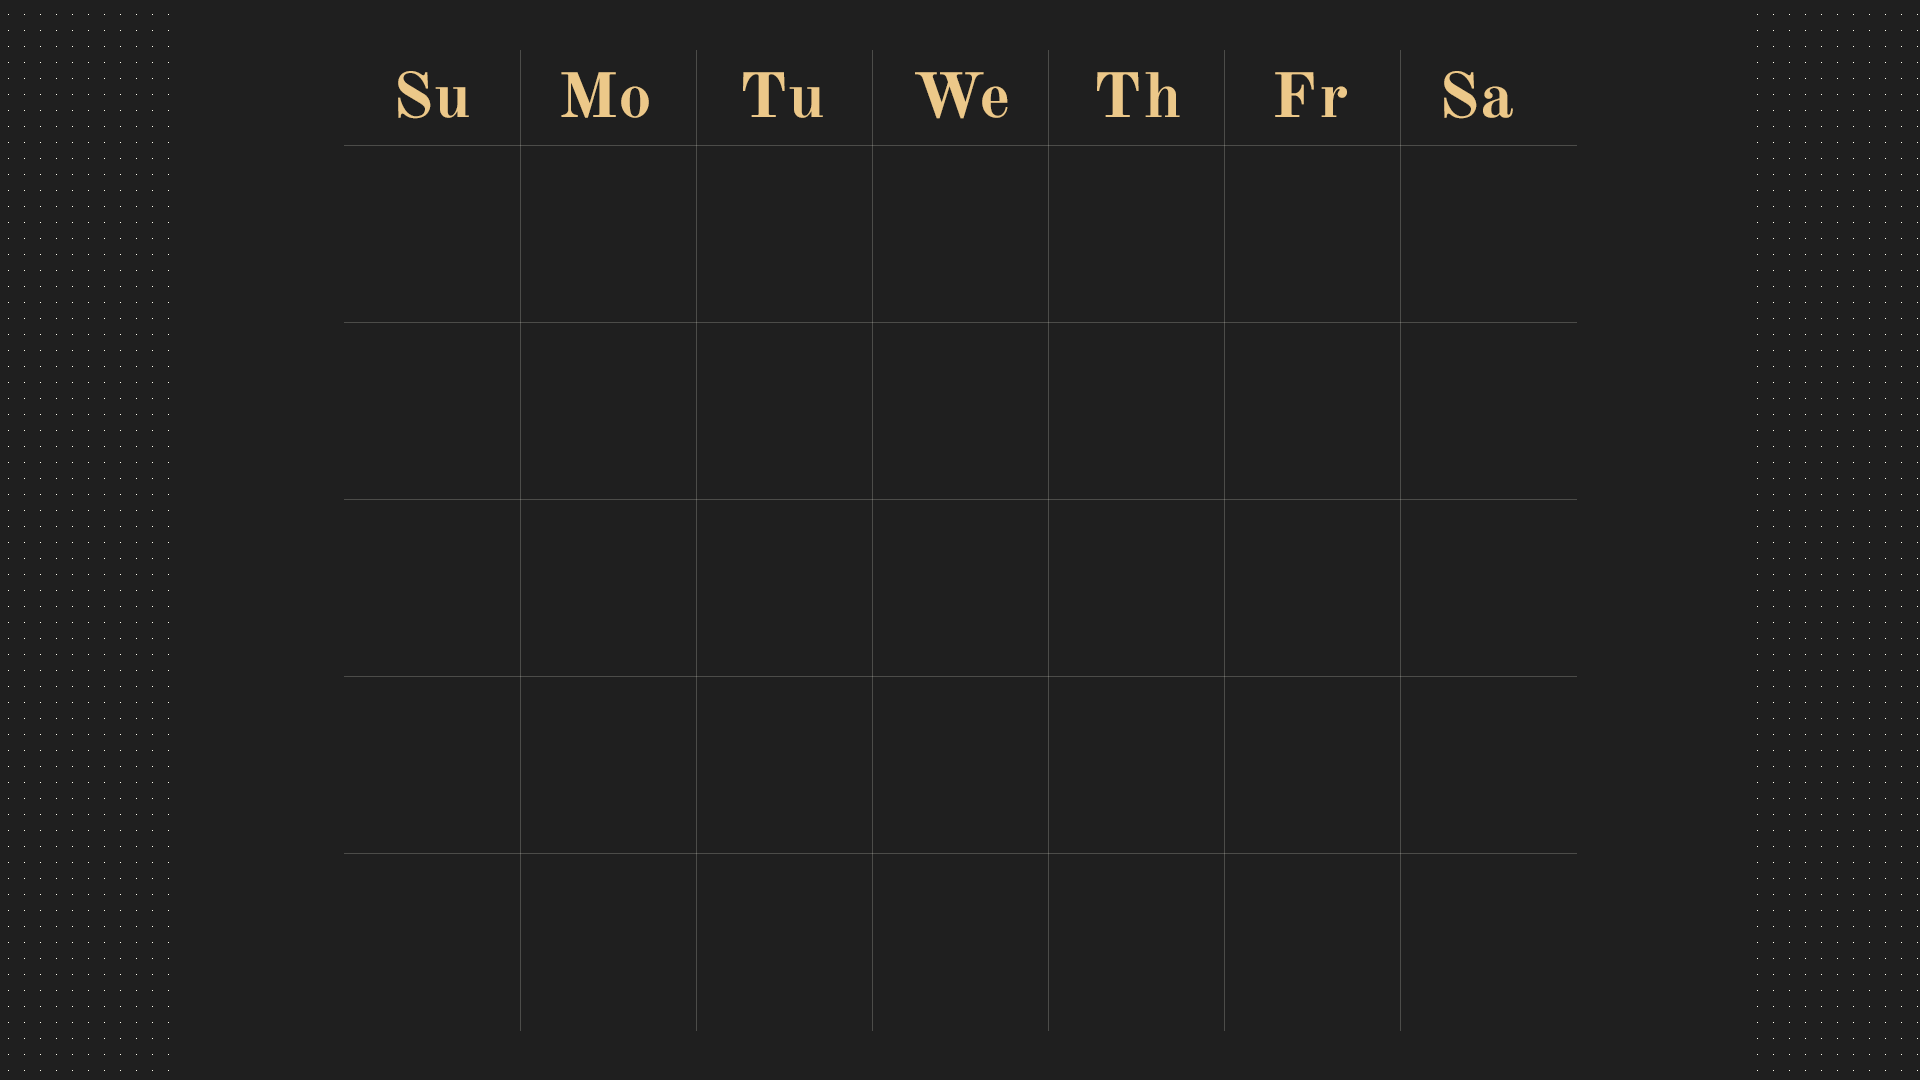
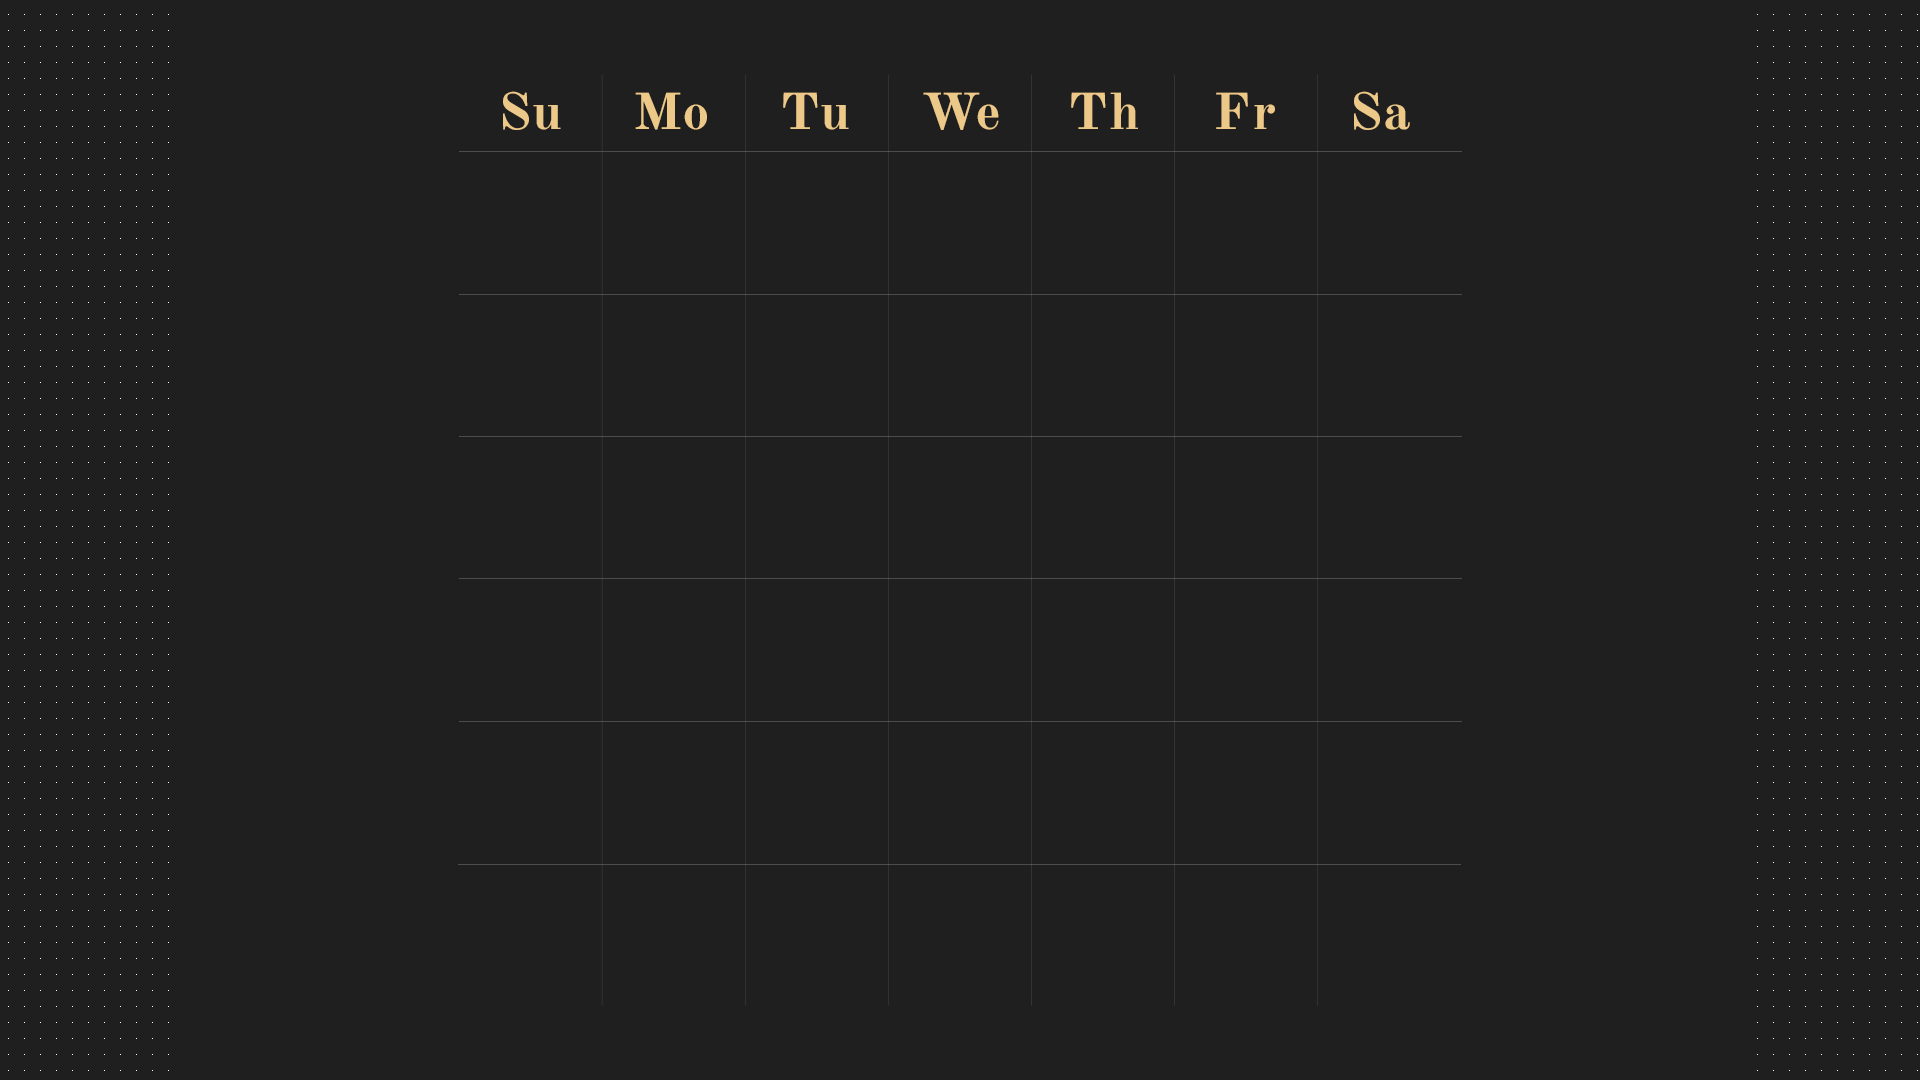
- Fixed setting wallpaper on startup - Calendar is now 6 rows instead of 5 for compatibility with all months - Month resize base on name length - Disabled crossing out upcoming days - Added log4net

Changed region(s): [[0.1875, 0.0611, 0.4375, 0.1222], [0.5625, 0.0611, 0.7812, 0.1222], [0.4688, 0.0611, 0.5312, 0.1222]]

diff --git a/UserControls/CustomCalendar.xaml b/UserControls/CustomCalendar.xaml
@@ -17,8 +17,8 @@
                     <ImageBrush ImageSource="/Assets/base.png" Stretch="UniformToFill"/>
                 </Grid.Background>
                 <!--<Image Source="pack://CalendarHabitsApp:,,,/Assets/base.png"></Image>-->
-                <ItemsControl Name="Calendar" ItemsSource="{Binding}" MaxWidth="1240" 
-                              VerticalAlignment="Top" HorizontalAlignment="Center" Margin="0,146,0,0">
+                <ItemsControl Name="Calendar" ItemsSource="{Binding}" MaxWidth="1004" 
+                              VerticalAlignment="Top" HorizontalAlignment="Center" Margin="0,151,0,0">
                     <ItemsControl.ItemsPanel>
                         <ItemsPanelTemplate>
                             <WrapPanel Orientation="Horizontal" />
@@ -26,9 +26,9 @@
                     </ItemsControl.ItemsPanel>
                     <ItemsControl.ItemTemplate>
                         <DataTemplate>
-                            <Border Width="176" Height="176" BorderThickness="1,1,1,1" BorderBrush="Transparent">
+                            <Border Width="142" Height="142" BorderThickness="1,1,1,1" BorderBrush="Transparent">
                                 <Grid>
-                                    <Image HorizontalAlignment="Center" VerticalAlignment="Center" Width="140" Height="140">
+                                    <Image HorizontalAlignment="Center" VerticalAlignment="Center" Width="112" Height="112">
                                         <Image.Style>
                                             <Style TargetType="Image">
                                                 <Style.Triggers>
@@ -40,7 +40,7 @@
                                         </Image.Style>
                                     </Image>
                                     <TextBlock Text="{Binding Date.Day}" FontFamily="Old Standard TT Bold" 
-                                   FontSize="76" HorizontalAlignment="Center" VerticalAlignment="Center">
+                                   FontSize="60" HorizontalAlignment="Center" VerticalAlignment="Center">
                                         <TextBlock.Style>
                                             <Style TargetType="TextBlock">
                                                 <Style.Triggers>
@@ -54,7 +54,7 @@
                                             </Style>
                                         </TextBlock.Style>
                                     </TextBlock>
-                                    <Grid Width="109" Height="104" VerticalAlignment="Center" HorizontalAlignment="Center" Cursor="Hand" MouseUp="Grid_MouseUp">
+                                    <Grid Width="88" Height="84" VerticalAlignment="Center" HorizontalAlignment="Center" Cursor="Hand" MouseUp="Grid_MouseUp">
                                         <Grid.Background>
                                             <SolidColorBrush Color="#fffef0" Opacity=".01" />
                                         </Grid.Background>

diff --git a/Helpers/Wallpaper.cs b/Helpers/Wallpaper.cs
@@ -56,6 +56,7 @@ namespace CalendarHabitsApp.Helpers
 
         public static void Set(string path)
         {
+            MainWindow.log.Info("Fetching desktop registry key");
             Style style = Wallpaper.Style.Centered;
             RegistryKey key = Registry.CurrentUser.OpenSubKey(@"Control Panel\Desktop", true);
 
@@ -67,7 +68,9 @@ namespace CalendarHabitsApp.Helpers
 
             if (style == Style.Centered)
             {
+                MainWindow.log.Info("Setting WallpaperStyle key value");
                 key.SetValue(@"WallpaperStyle", 1.ToString());
+                MainWindow.log.Info("Setting TileWallpaper key value");
                 key.SetValue(@"TileWallpaper", 0.ToString());
             }
 
@@ -77,14 +80,17 @@ namespace CalendarHabitsApp.Helpers
                 key.SetValue(@"TileWallpaper", 1.ToString());
             }
 
+            MainWindow.log.Info("Saving wallpaper path to registry - " + path);
             SystemParametersInfo(SPI_SETDESKWALLPAPER,
                 0,
                 path,
                 SPIF_UPDATEINIFILE | SPIF_SENDWININICHANGE);
+            MainWindow.log.Info("Saving wallpaper complete");
         }
 
         public static void CreateImage(bool darkMode, DateTime currentDate, CalendarCell currentDateCell, List<MonthDay> selectedMonthDays, List<DateTime> habitDays)
         {
+            MainWindow.log.Info("Drawing calendar bitmap");
             Color color1, color2, color3;
             String baseImageFile, highlightFile, crossoutFile, crossoutDimmedFile;
 
@@ -113,20 +119,15 @@ namespace CalendarHabitsApp.Helpers
             //
             CalendarVariables calVars = new CalendarVariables();
 
-            int textw = 89;
-            int texth = 70;
+            int textw = 70;
+            int texth = 45;
 
             FontCollection collection = new FontCollection();
             FontFamily family = collection.Install(IOPath.Combine(System.AppDomain.CurrentDomain.BaseDirectory, "Assets", "Fonts", "OldStandard-Bold.ttf"));
 
-            Font numbersFont = family.CreateFont(75, FontStyle.Italic);
-            RendererOptions numbersFontOptions = new RendererOptions(numbersFont, dpi: 72)
-            {
-                ApplyKerning = true
-            };
 
-            Font monthFont = family.CreateFont(242, FontStyle.Italic);
-            RendererOptions monthFontOptions = new RendererOptions(numbersFont, dpi: 72)
+            Font numbersFont = family.CreateFont(60, FontStyle.Italic);
+            RendererOptions numbersFontOptions = new RendererOptions(numbersFont, dpi: 72)
             {
                 ApplyKerning = true
             };
@@ -143,10 +144,11 @@ namespace CalendarHabitsApp.Helpers
                 Point highlightPosition = new Point(
                     calVars.canvasStartX + (currentDateCell.X - 1) * calVars.calendarCellW
                     + (currentDateCell.X * calVars.calendarCellBorder)
-                     + (calVars.calendarCellW / 2 - calVars.currentDayHighlightImageW / 2),
-                     calVars.canvasStartY + (currentDateCell.Y - 1) * calVars.calendarCellH
-                     + (currentDateCell.Y * calVars.calendarCellBorder)
-                     + (calVars.calendarCellH / 2 - calVars.currentDayHighlightImageH / 2));
+                    + (calVars.calendarCellW / 2 - calVars.currentDayHighlightImageW / 2),
+                     calVars.canvasStartY - 2 + ((currentDateCell.Y - 1) * calVars.calendarCellH)
+                    + (currentDateCell.Y * calVars.calendarCellBorder)
+                    + (calVars.calendarCellH / 2 - calVars.currentDayHighlightImageH / 2));
+                //Y calc -> (CanvasStart Y px + CurrentDayCell row number * cellheight) + (CurrentDayCell row number * border size) + (cellheight / 2 - imageheight / 2)
 
                 outputImage.Mutate(o => o
                     .DrawImage(baseImage, new Point(0, 0), 1f)
@@ -157,12 +159,12 @@ namespace CalendarHabitsApp.Helpers
                 #region Draw Calendar numbers
                 //Draw Calendar numbers
                 //
-                for (int i = 0; i < 5; i++)
+                for (int i = 0; i < 6; i++)
                 {
                     for (int j = 0; j < 7; j++)
                     {
                         float posx = calVars.canvasStartX + ((j + 1) - 1) * calVars.calendarCellW + ((j + 1) * calVars.calendarCellBorder) + (calVars.calendarCellW / 2 - textw / 2);
-                        float posy = calVars.canvasStartY - 15 + ((i + 1) - 1) * calVars.calendarCellH + ((i + 1) * calVars.calendarCellBorder) + (calVars.calendarCellH / 2 - texth / 2);
+                        float posy = calVars.canvasStartY - 20 + (((i + 1) - 1) * calVars.calendarCellH) + ((i + 1) * calVars.calendarCellBorder) + (calVars.calendarCellH / 2 - texth / 2);
 
                         Color textcolor = color1;
 
@@ -179,7 +181,7 @@ namespace CalendarHabitsApp.Helpers
                         if (habitDay != -1)
                         {
                             int posx2 = calVars.canvasStartX - 10 + ((j + 1) - 1) * calVars.calendarCellW + ((j + 1) * calVars.calendarCellBorder) + (calVars.calendarCellW / 2 - textw / 2);
-                            int posy2 = calVars.canvasStartY - 15 + ((i + 1) - 1) * calVars.calendarCellH + ((i + 1) * calVars.calendarCellBorder) + (calVars.calendarCellH / 2 - texth / 2);
+                            int posy2 = calVars.canvasStartY - 22 + ((i + 1) - 1) * calVars.calendarCellH + ((i + 1) * calVars.calendarCellBorder) + (calVars.calendarCellH / 2 - texth / 2);
 
                             if (selectedMonthDays[(i * 7) + j].FromCurrentMonth)
                             {
@@ -205,11 +207,27 @@ namespace CalendarHabitsApp.Helpers
                 var textGraphicsOptions = new TextGraphicsOptions() // draw the text along the path wrapping at the end of the line
                 {
                     TextOptions = {
-                        WrapTextWidth = path.Length
+                        WrapTextWidth = path.Length,
+                        HorizontalAlignment = HorizontalAlignment.Center
                     }
                 };
 
-                var glyphs = TextBuilder.GenerateGlyphs(Common.GetMonthNameFromNumber(currentDate.Month).ToUpper(), path, new RendererOptions(monthFont, textGraphicsOptions.TextOptions.DpiX, textGraphicsOptions.TextOptions.DpiY)
+                Font monthFontBase = family.CreateFont(242, FontStyle.Italic);
+                RendererOptions monthFontOptions = new RendererOptions(monthFontBase, dpi: 72)
+                {
+                    ApplyKerning = true
+                };
+
+                string MonthText = Common.GetMonthNameFromNumber(currentDate.Month).ToUpper();
+
+                // measure the text size
+                FontRectangle size = TextMeasurer.Measure(MonthText, new RendererOptions(monthFontBase));
+                int w = 934;
+                int h = 278;
+                float scalingFactor = Math.Min(w / size.Width, h / size.Height);
+                Font monthFont = new Font(monthFontBase, scalingFactor * monthFontBase.Size);
+
+                var glyphs = TextBuilder.GenerateGlyphs(MonthText, path, new RendererOptions(monthFont, textGraphicsOptions.TextOptions.DpiX, textGraphicsOptions.TextOptions.DpiY)
                 {
                     HorizontalAlignment = textGraphicsOptions.TextOptions.HorizontalAlignment,
                     TabWidth = textGraphicsOptions.TextOptions.TabWidth,
@@ -238,22 +256,37 @@ namespace CalendarHabitsApp.Helpers
                     }
                 };
 
-                var glyphs2 = TextBuilder.GenerateGlyphs(currentDate.Year.ToString(), path2, new RendererOptions(monthFont, textGraphicsOptions.TextOptions.DpiX, textGraphicsOptions.TextOptions.DpiY)
+                Font yearFont = family.CreateFont(242);
+                RendererOptions yearFontOptions = new RendererOptions(yearFont, dpi: 72)
                 {
-                    HorizontalAlignment = textGraphicsOptions.TextOptions.HorizontalAlignment,
-                    TabWidth = textGraphicsOptions.TextOptions.TabWidth,
-                    VerticalAlignment = textGraphicsOptions.TextOptions.VerticalAlignment,
-                    WrappingWidth = textGraphicsOptions.TextOptions.WrapTextWidth,
-                    ApplyKerning = textGraphicsOptions.TextOptions.ApplyKerning
+                    ApplyKerning = true
+                };
+
+                var glyphs2 = TextBuilder.GenerateGlyphs(currentDate.Year.ToString(), path2, new RendererOptions(yearFont, textGraphicsOptions2.TextOptions.DpiX, textGraphicsOptions2.TextOptions.DpiY)
+                {
+                    HorizontalAlignment = textGraphicsOptions2.TextOptions.HorizontalAlignment,
+                    TabWidth = textGraphicsOptions2.TextOptions.TabWidth,
+                    VerticalAlignment = textGraphicsOptions2.TextOptions.VerticalAlignment,
+                    WrappingWidth = textGraphicsOptions2.TextOptions.WrapTextWidth,
+                    ApplyKerning = textGraphicsOptions2.TextOptions.ApplyKerning
                 });
 
                 outputImage.Mutate(ctx => ctx
                     .Fill(color1, glyphs2));
                 #endregion
 
+                MainWindow.log.Info("Saving image as output.png");
                 //Save output image
                 //
-                outputImage.Save("output.png");
+                try
+                {
+                    outputImage.SaveAsPngAsync("output.png");
+                    MainWindow.log.Info("Image saved successfully");
+                }
+                catch (Exception e)
+                {
+                    MainWindow.log.Error(e.InnerException.Message);
+                }
             }
         }
     }

diff --git a/ViewModels/MainViewModel.cs b/ViewModels/MainViewModel.cs
@@ -1,5 +1,6 @@
 using CalendarHabitsApp.Helpers;
 using CalendarHabitsApp.Models;
+using log4net;
 using Prism.Commands;
 using Prism.Mvvm;
 using System;
@@ -41,10 +42,9 @@ namespace CalendarHabitsApp.ViewModels
 
         public DelegateCommand UpdateCommand { get; set; }
 
-        bool InitUpdate = false;
-
         public MainViewModel()
         {
+            log4net.Config.XmlConfigurator.Configure();
             UpdateCommand = new DelegateCommand(Update);
 
             //InitAsync();
@@ -57,7 +57,7 @@ namespace CalendarHabitsApp.ViewModels
 
         public async Task InitAsync()
         {
-            RefreshTimer.Interval = TimeSpan.FromSeconds(5);
+            RefreshTimer.Interval = TimeSpan.FromSeconds(10);
             RefreshTimer.Tick += RefreshTimer_Tick;
 
             SelectedMonthDays = new ObservableCollection<MonthDay>();
@@ -72,16 +72,15 @@ namespace CalendarHabitsApp.ViewModels
 
             FillSelectedMonthInfo();
 
-            //UpdateWallpaper();
+            Update();
             RefreshTimer.Start();
         }
 
         private void RefreshTimer_Tick(object sender, EventArgs e)
         {
-            if (!InitUpdate || CurrentDate.Day != DateTime.Now.Day)
+            if (CurrentDate.Day != DateTime.Now.Day)
             {
-                UpdateWallpaper();
-                InitUpdate = true;
+                Update();
             }
         }
 
@@ -97,7 +96,7 @@ namespace CalendarHabitsApp.ViewModels
             }
 
 
-            for (int i = 0; i < 5; i++)
+            for (int i = 0; i < 6; i++)
             {
                 List<int> colList = new List<int>();
 
@@ -127,9 +126,10 @@ namespace CalendarHabitsApp.ViewModels
 
         public async Task UpdateWallpaper()
         {
+            MainWindow.log.Info("Updating wallpaper - starting...");
             CurrentDate = DateTime.Now;
 
-            for (int i = 0; i < 5; i++)
+            for (int i = 0; i < 6; i++)
             {
                 for (int j = 0; j < 7; j++)
                 {

diff --git a/MainWindow.xaml.cs b/MainWindow.xaml.cs
@@ -1,23 +1,8 @@
-using CalendarHabitsApp.Helpers;
-using CalendarHabitsApp.Models;
-using CalendarHabitsApp.ViewModels;
+using CalendarHabitsApp.ViewModels;
+using log4net;
 using System;
-using System.Collections.Generic;
-using System.Collections.ObjectModel;
-using System.Linq;
 using System.Reflection;
-using System.Text;
-using System.Threading.Tasks;
 using System.Windows;
-using System.Windows.Controls;
-using System.Windows.Data;
-using System.Windows.Documents;
-using System.Windows.Input;
-using System.Windows.Media;
-using System.Windows.Media.Imaging;
-using System.Windows.Navigation;
-using System.Windows.Shapes;
-using System.Windows.Threading;
 
 namespace CalendarHabitsApp
 {
@@ -26,6 +11,8 @@ namespace CalendarHabitsApp
     /// </summary>
     public partial class MainWindow : Window
     {
+        public static readonly ILog log = LogManager.GetLogger(System.Reflection.MethodBase.GetCurrentMethod().DeclaringType);
+
         public MainViewModel viewModel;
 
         public MainWindow()
@@ -87,8 +74,8 @@ namespace CalendarHabitsApp
 
                 string appPath = curAssembly.Location.Replace(".dll", ".exe");
 
-                if (viewModel.Settings.StartMinimized)
-                    appPath += " --start-minimized";
+                //if (viewModel.Settings.StartMinimized)
+                    //appPath += " --start-minimized";
 
                 if (chkStartUp.IsChecked.Value)
                     key.SetValue(curAssembly.GetName().Name, appPath);

diff --git a/Models/CalendarVariables.cs b/Models/CalendarVariables.cs
@@ -22,19 +22,19 @@ namespace CalendarHabitsApp.Models
 
         public CalendarVariables()
         {
-            canvasStartX = 344;
-            canvasStartY = 145;
+            canvasStartX = 459;
+            canvasStartY = 151;
 
-            calendarCellW = 175;
-            calendarCellH = 176;
+            calendarCellW = 142;
+            calendarCellH = 142;
 
             calendarCellBorder = 1;
 
-            crossoutImageW = 109;
-            crossoutImageH = 104;
+            crossoutImageW = 88;
+            crossoutImageH = 84;
 
-            currentDayHighlightImageW = 140;
-            currentDayHighlightImageH = 140;
+            currentDayHighlightImageW = 112;
+            currentDayHighlightImageH = 112;
         }
     }
 }

diff --git a/App.xaml.cs b/App.xaml.cs
@@ -6,6 +6,7 @@ using System.Data;
 using System.Linq;
 using System.Threading.Tasks;
 using System.Windows;
+using log4net;
 
 namespace CalendarHabitsApp
 {
@@ -15,9 +16,13 @@ namespace CalendarHabitsApp
     public partial class App : Application
     {
         private TaskbarIcon notifyIcon;
+        private static readonly ILog log = LogManager.GetLogger(typeof(App));
 
         protected override void OnStartup(StartupEventArgs e)
         {
+            log4net.Config.XmlConfigurator.Configure();
+            log.Info("        =============  Started Logging  =============        ");
+
             base.OnStartup(e);
 
             var bootstrapper = new Bootstrapper();

diff --git a/UserControls/CustomCalendar.xaml.cs b/UserControls/CustomCalendar.xaml.cs
@@ -28,6 +28,10 @@ namespace CalendarHabitsApp.UserControls
         private void Grid_MouseUp(object sender, MouseButtonEventArgs e)
         {
             MonthDay mDay = ((MonthDay)((Grid)sender).DataContext);
+
+            if (mDay.Date > DateTime.Now)
+                return;
+
             mDay.Checked = !mDay.Checked;
 
             MainWindow mainWindow = ((MainWindow)Application.Current.MainWindow);

diff --git a/AssemblyInfo.cs b/AssemblyInfo.cs
@@ -8,3 +8,4 @@ using System.Windows;
                                               //(used if a resource is not found in the page,
                                               // app, or any theme specific resource dictionaries)
 )]
+[assembly: log4net.Config.XmlConfigurator(ConfigFile = "log4net.config", Watch = true)]
